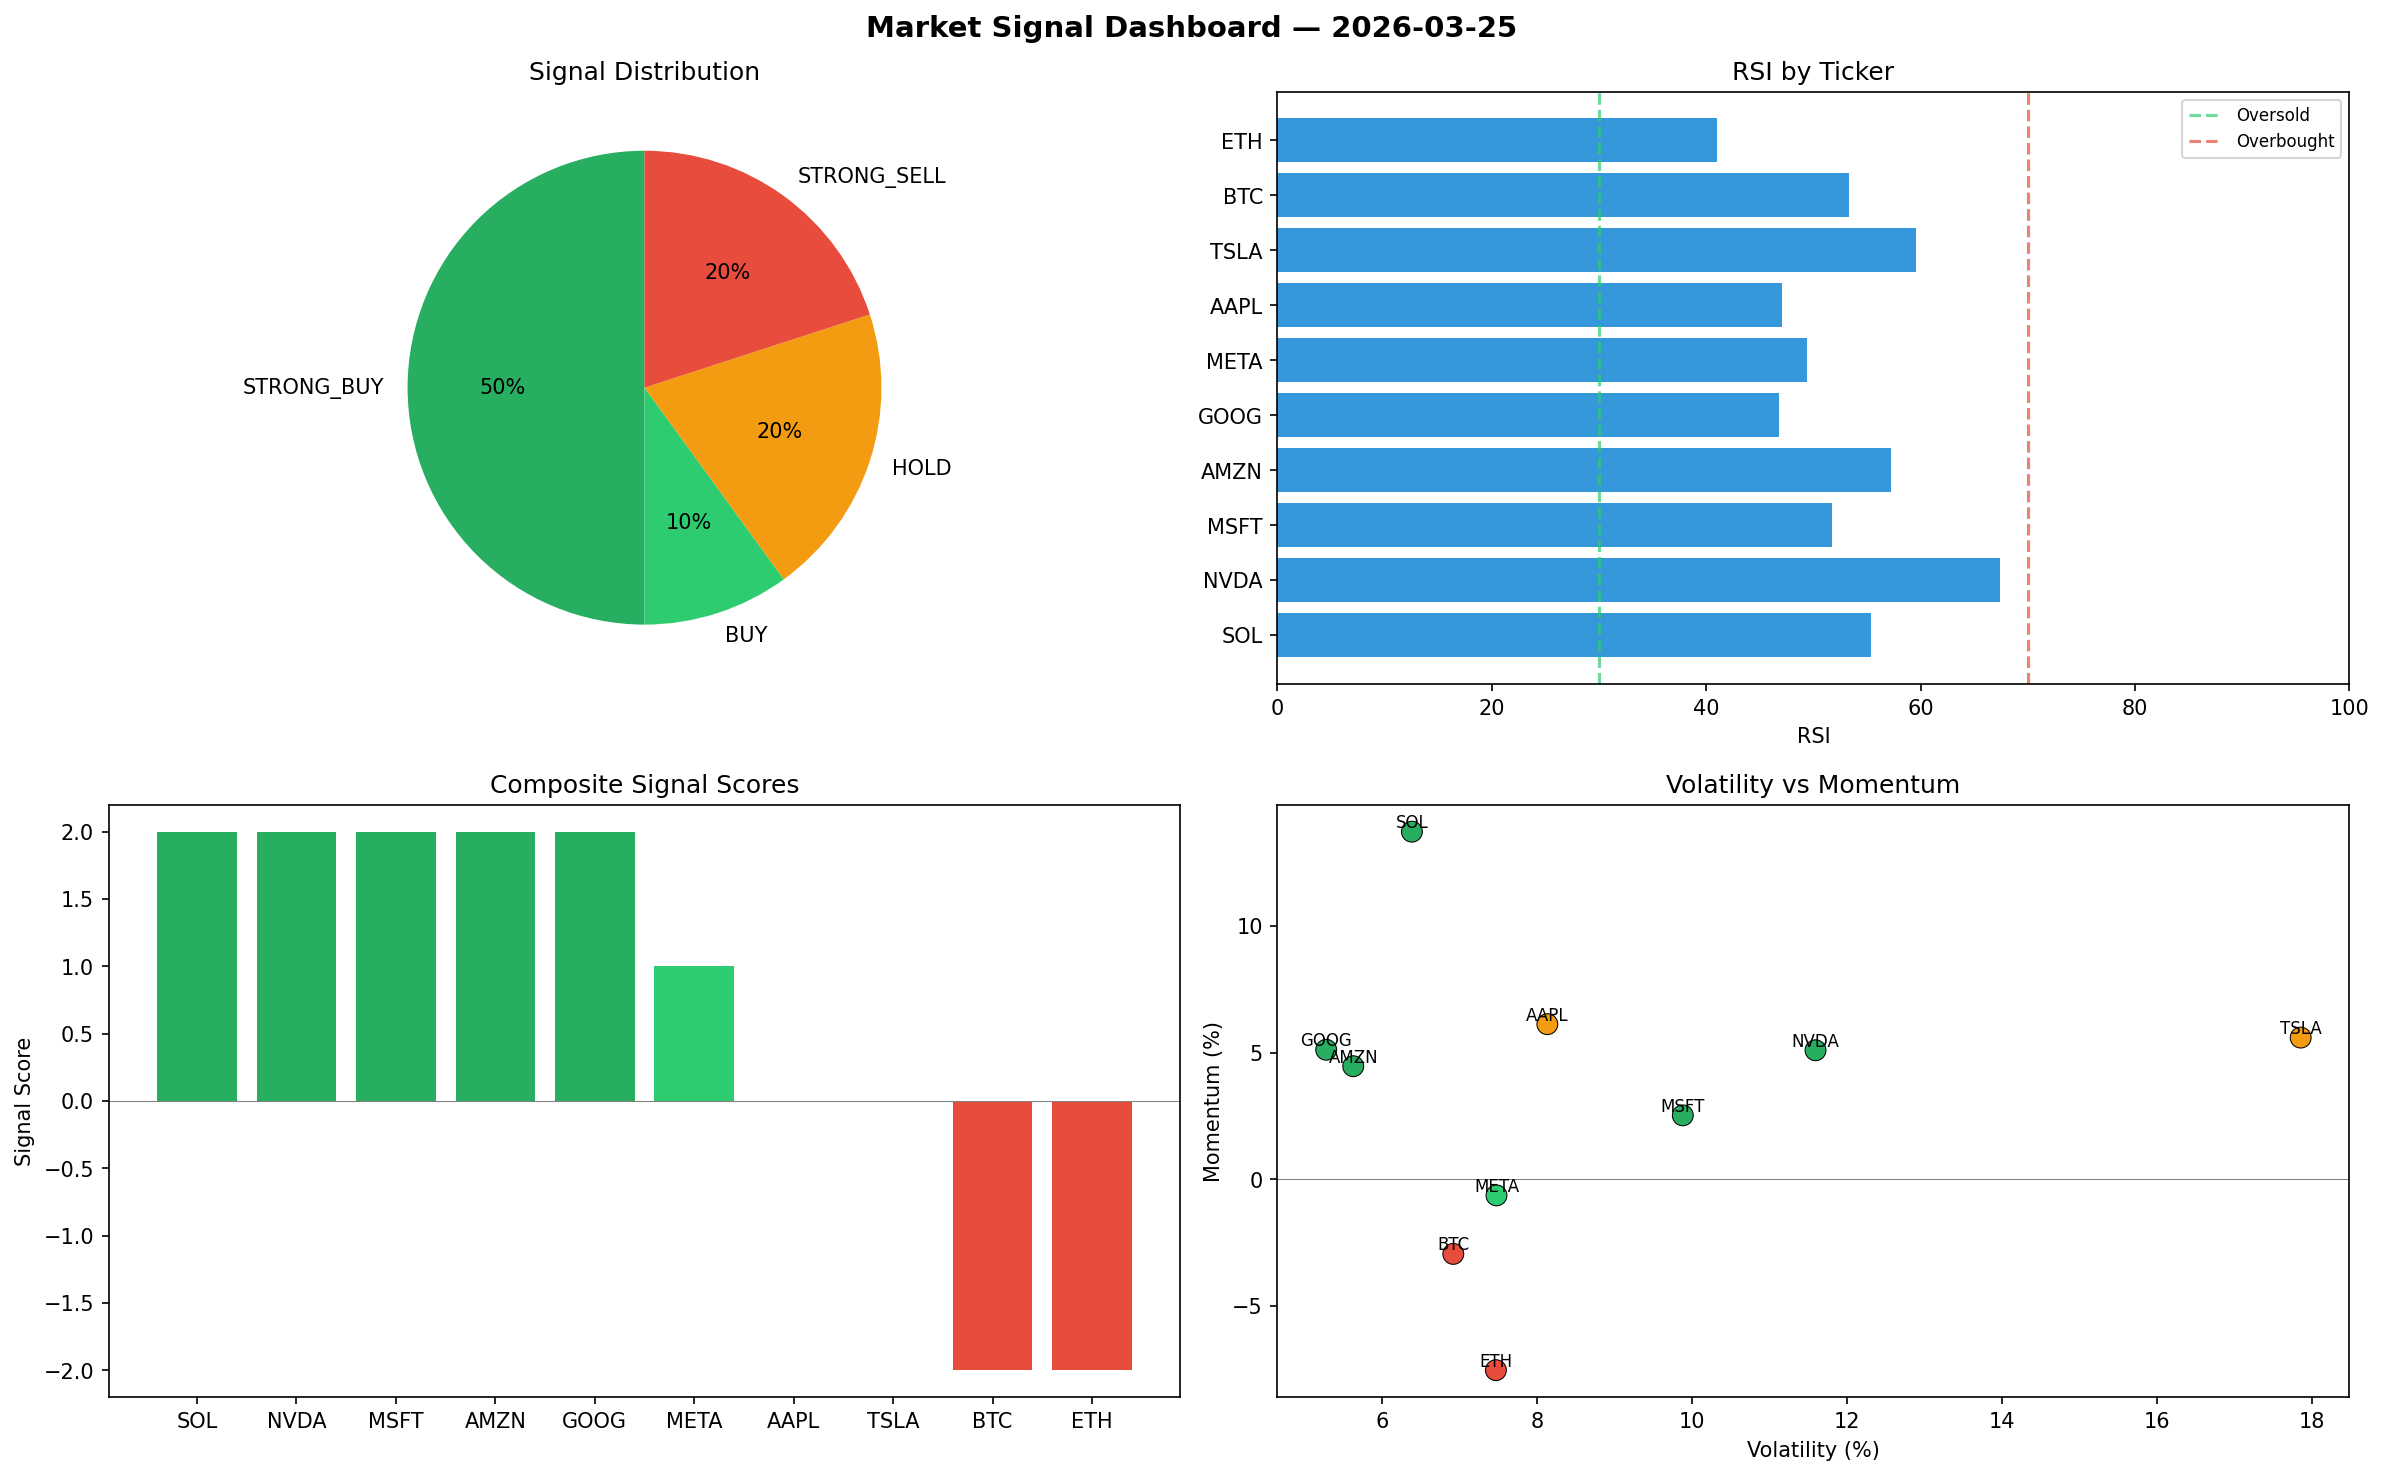
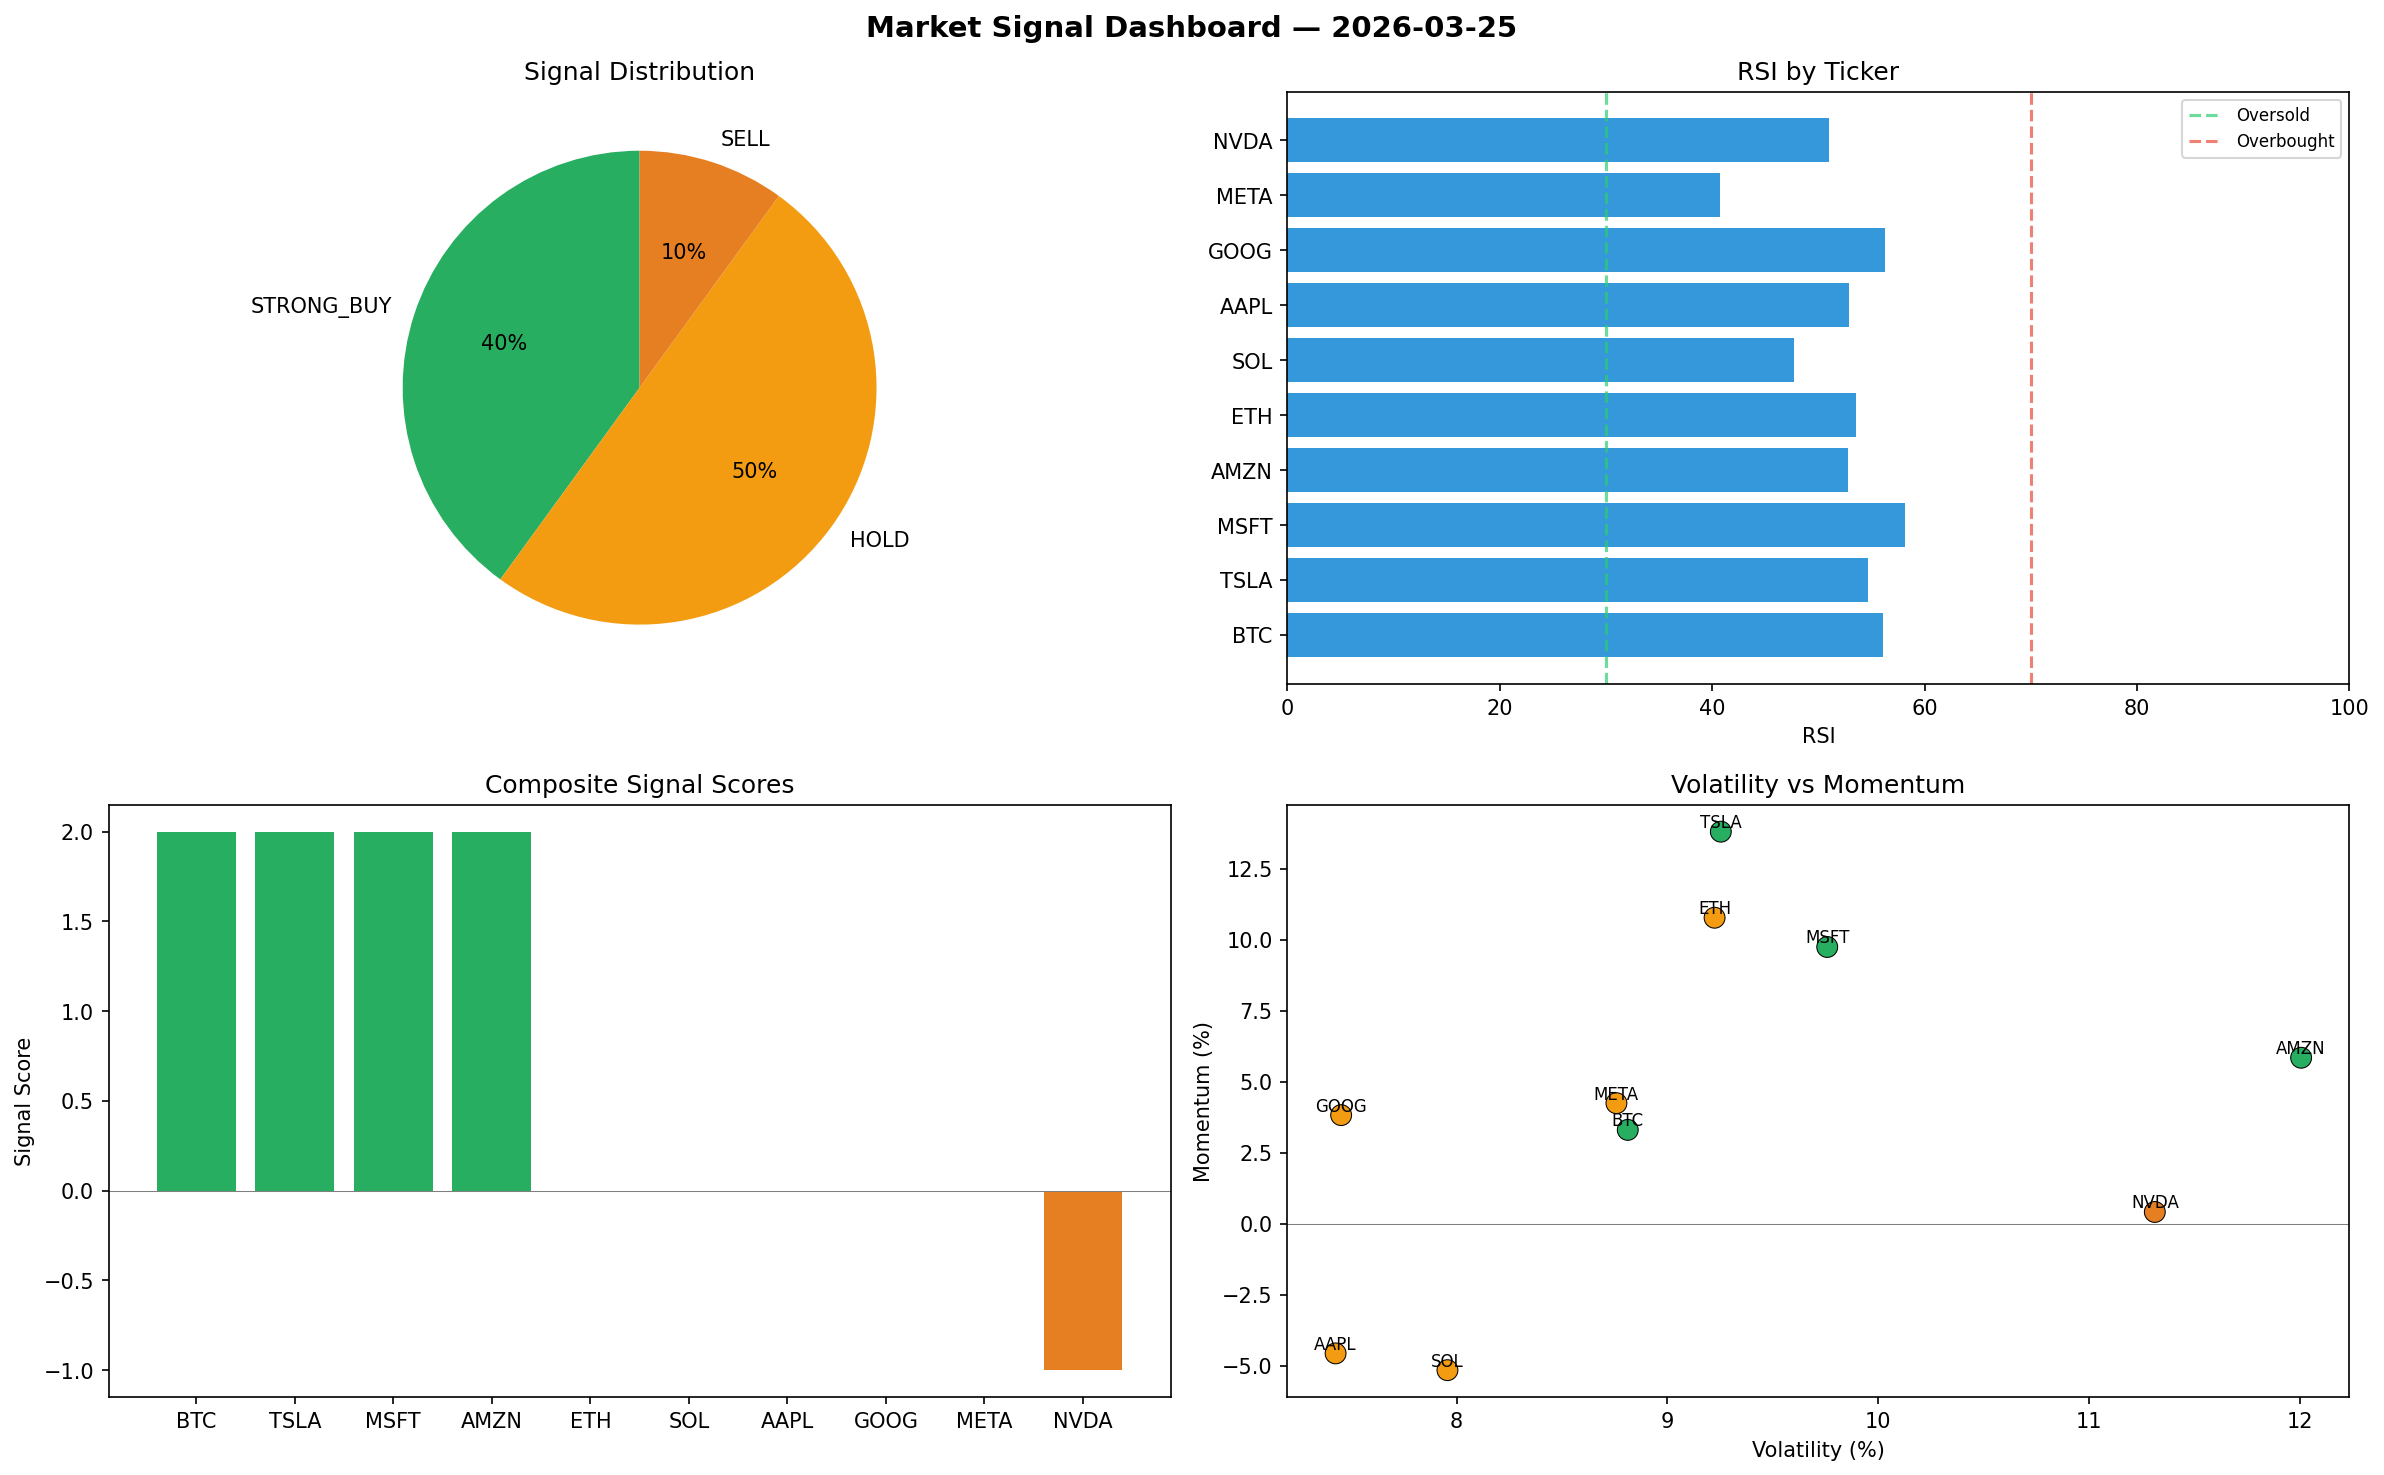
automated-bots: market signals 2026-03-25T09:13

diff --git a/logs/2026-03-25.md b/logs/2026-03-25.md
@@ -1,6 +1,6 @@
 # Market Signal Report — 2026-03-25
 
-**Run ID:** `c5d6a772af` | **Buy:** 6 | **Sell:** 2 | **Hold:** 2
+**Run ID:** `39b03b5329` | **Buy:** 4 | **Sell:** 1 | **Hold:** 5
 
 ![Dashboard](2026-03-25_dashboard.png)
 
@@ -8,28 +8,28 @@
 
 | Ticker | Price | Signal | Score | RSI | Momentum | Confidence |
 |--------|-------|--------|-------|-----|----------|------------|
-| SOL | $1180.88 | **STRONG_BUY** | 2 | 55.38 | 0.1372 | 0.5 |
-| NVDA | $172.33 | **STRONG_BUY** | 2 | 67.39 | 0.0509 | 0.5 |
-| MSFT | $4086.44 | **STRONG_BUY** | 2 | 51.73 | 0.0252 | 0.5 |
-| AMZN | $270.19 | **STRONG_BUY** | 2 | 57.23 | 0.0446 | 0.5 |
-| GOOG | $3021.27 | **STRONG_BUY** | 2 | 46.77 | 0.0511 | 0.5 |
-| META | $552.37 | **BUY** | 1 | 49.43 | -0.0064 | 0.25 |
-| AAPL | $4938.47 | **HOLD** | 0 | 47.06 | 0.0612 | 0.0 |
-| TSLA | $3956.93 | **HOLD** | 0 | 59.6 | 0.0559 | 0.0 |
-| BTC | $1548.89 | **STRONG_SELL** | -2 | 53.33 | -0.0295 | 0.5 |
-| ETH | $4155.05 | **STRONG_SELL** | -2 | 40.98 | -0.0754 | 0.5 |
+| BTC | $1657.01 | **STRONG_BUY** | 2 | 56.1 | 0.0331 | 0.5 |
+| TSLA | $320.53 | **STRONG_BUY** | 2 | 54.68 | 0.1381 | 0.5 |
+| MSFT | $3559.15 | **STRONG_BUY** | 2 | 58.18 | 0.0975 | 0.5 |
+| AMZN | $3958.48 | **STRONG_BUY** | 2 | 52.78 | 0.0585 | 0.5 |
+| ETH | $3275.34 | **HOLD** | 0 | 53.57 | 0.1078 | 0.0 |
+| SOL | $3550.17 | **HOLD** | 0 | 47.68 | -0.0515 | 0.0 |
+| AAPL | $1571.4 | **HOLD** | 0 | 52.91 | -0.0456 | 0.0 |
+| GOOG | $312.95 | **HOLD** | 0 | 56.24 | 0.0383 | 0.0 |
+| META | $4285.87 | **HOLD** | 0 | 40.7 | 0.0425 | 0.0 |
+| NVDA | $4448.29 | **SELL** | -1 | 50.96 | 0.0042 | 0.25 |
 
 ## Delta vs Yesterday
 
 | Ticker | Today | Yesterday | Price Change | Signal Changed |
 |--------|-------|-----------|-------------|----------------|
-| SOL | STRONG_BUY | STRONG_SELL | 📈 186.34% | ⚠ YES |
-| NVDA | STRONG_BUY | STRONG_SELL | 📉 -40.5% | ⚠ YES |
-| MSFT | STRONG_BUY | HOLD | 📉 -18.16% | ⚠ YES |
-| AMZN | STRONG_BUY | STRONG_SELL | 📉 -91.18% | ⚠ YES |
-| GOOG | STRONG_BUY | STRONG_SELL | 📈 154.6% | ⚠ YES |
-| META | BUY | BUY | 📉 -58.35% | — |
-| AAPL | HOLD | STRONG_SELL | 📈 121.22% | ⚠ YES |
-| TSLA | HOLD | STRONG_BUY | 📈 32.42% | ⚠ YES |
-| BTC | STRONG_SELL | STRONG_SELL | 📈 73.91% | — |
-| ETH | STRONG_SELL | STRONG_SELL | 📈 0.22% | — |
+| BTC | STRONG_BUY | STRONG_SELL | 📈 86.05% | ⚠ YES |
+| TSLA | STRONG_BUY | STRONG_BUY | 📉 -89.27% | — |
+| MSFT | STRONG_BUY | HOLD | 📉 -28.72% | ⚠ YES |
+| AMZN | STRONG_BUY | STRONG_SELL | 📈 29.24% | ⚠ YES |
+| ETH | HOLD | STRONG_SELL | 📉 -21.0% | ⚠ YES |
+| SOL | HOLD | STRONG_SELL | 📈 760.84% | ⚠ YES |
+| AAPL | HOLD | STRONG_SELL | 📉 -29.61% | ⚠ YES |
+| GOOG | HOLD | STRONG_SELL | 📉 -73.63% | ⚠ YES |
+| META | HOLD | BUY | 📈 223.14% | ⚠ YES |
+| NVDA | SELL | STRONG_SELL | 📈 1435.8% | ⚠ YES |
